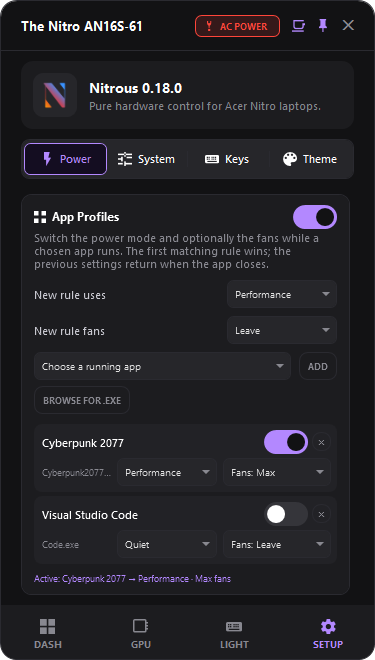
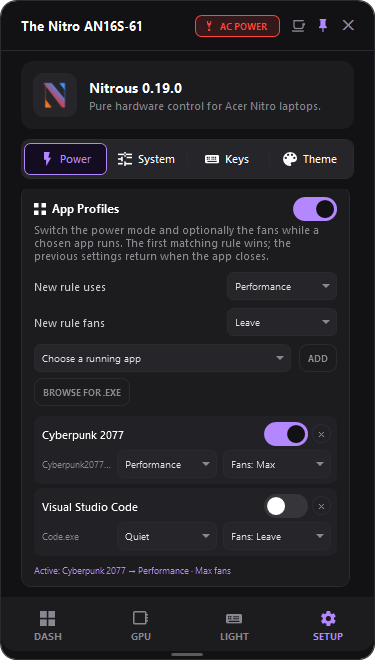
chore(release): prepare 0.19.0
Consolidates the light/dark/system, height resize, Nitro toast and event-driven app-profile work into the 0.19.0 changelog section and moves the version to 0.19.0. Refreshes the site shots at 0.19.0 and updates the Theme tab copy; the README assets are copied from the same run. Not tagged yet.

diff --git a/docs/index.html b/docs/index.html
@@ -82,7 +82,7 @@
           "downloadUrl": "https://github.com/jeremyaliparo/nitrous/releases/latest/download/Nitrous.exe",
           "applicationCategory": "UtilitiesApplication",
           "operatingSystem": "Windows 10, Windows 11",
-          "softwareVersion": "0.18.0",
+          "softwareVersion": "0.19.0",
           "license": "https://github.com/jeremyaliparo/nitrous/blob/master/LICENSE",
           "softwareHelp": "https://github.com/jeremyaliparo/nitrous#readme",
           "releaseNotes": "https://github.com/jeremyaliparo/nitrous/blob/master/CHANGELOG.md",
@@ -220,7 +220,7 @@
       <a class="brand" href="#top">
         <svg class="brand-mark" viewBox="0 0 64 64" aria-hidden="true"><path d="M8 8h12l24 34V8h12v48H44L20 22v34H8z" fill="url(#nitroGrad)"/></svg>
         <span class="brand-name">Nitrous</span>
-        <span class="brand-tag">v<span data-gh-version>0.18.0</span></span>
+        <span class="brand-tag">v<span data-gh-version>0.19.0</span></span>
       </a>
 
       <nav class="nav" id="primary-nav" aria-label="Primary">
@@ -281,7 +281,7 @@
           <div class="hero-cta reveal delay-3">
             <a class="btn btn-primary btn-lg" href="https://github.com/jeremyaliparo/nitrous/releases/latest/download/Nitrous.exe">
               <svg class="icon" aria-hidden="true"><use href="#i-windows"/></svg>
-              Download Nitrous <span class="btn-version" data-gh-version>0.18.0</span>
+              Download Nitrous <span class="btn-version" data-gh-version>0.19.0</span>
             </a>
             <a class="btn btn-ghost btn-lg" href="https://github.com/jeremyaliparo/nitrous" target="_blank" rel="noopener">
               <svg class="icon" aria-hidden="true"><use href="#i-github"/></svg>
@@ -592,7 +592,7 @@
               <span class="tab-index">05</span>
               <span class="tab-body">
                 <span class="tab-title">Theme</span>
-                <span class="tab-desc">Presets, accent swatches, corners, UI scale and the toast and tray choices.</span>
+                <span class="tab-desc">Light, dark, or System themes, accent swatches, corners, UI scale and the toast and tray choices.</span>
               </span>
             </button>
             <button class="screen-tab" type="button" id="tab-profiles" role="tab" aria-selected="false" aria-controls="panel-profiles" tabindex="-1">
@@ -653,7 +653,7 @@
                 <figcaption>Setup · App Profiles</figcaption>
               </figure>
             </div>
-            <p class="shot-hint"><span class="pulse-dot" aria-hidden="true"></span>Live app · v<span data-gh-version>0.18.0</span></p>
+            <p class="shot-hint"><span class="pulse-dot" aria-hidden="true"></span>Live app · v<span data-gh-version>0.19.0</span></p>
           </div>
         </div>
       </div>
@@ -849,7 +849,7 @@
               <span class="eyebrow">Latest release</span>
               <span class="release-badge">Stable</span>
             </div>
-            <p class="release-version">v<span data-gh-version>0.18.0</span></p>
+            <p class="release-version">v<span data-gh-version>0.19.0</span></p>
             <p class="release-date">Released <span data-gh-date>Nov 28, 2026</span></p>
 
             <dl class="release-rows">
@@ -995,7 +995,7 @@
               <svg class="icon" aria-hidden="true"><use href="#i-external"/></svg>
             </a>
           </div>
-          <p class="cta-foot">v<span data-gh-version>0.18.0</span> · MIT · Windows 10/11 x64 · .NET 10 Desktop Runtime</p>
+          <p class="cta-foot">v<span data-gh-version>0.19.0</span> · MIT · Windows 10/11 x64 · .NET 10 Desktop Runtime</p>
         </div>
       </div>
     </section>
@@ -1020,7 +1020,7 @@
           </div>
           <p class="footer-status">
             <span class="pulse-dot" aria-hidden="true"></span>
-            Actively maintained · v<span data-gh-version>0.18.0</span> · <span data-gh-date>Nov 28, 2026</span>
+            Actively maintained · v<span data-gh-version>0.19.0</span> · <span data-gh-date>Nov 28, 2026</span>
           </p>
         </div>
 

diff --git a/CHANGELOG.md b/CHANGELOG.md
@@ -3,6 +3,36 @@
 All notable changes to Nitrous are documented here. The GitHub release for a version is
 published from the matching section of this file.
 
+## 0.19.0 - 2026-11-28
+
+### Appearance
+
+**0.19.0 is the light, shape and toast line.**
+
+- **Light, dark and System.** Choose a mode or follow the Windows app theme. Light and dark keep
+  their own accent, background and section choices; light adds Daylight, Frost, Sand and Mono
+  presets and a palette with its own text, status and accent contrast range so it stays readable on
+  white. System follows Windows live.
+- **Height-only resize.** A grip below the navigation changes the dashboard height and nothing else.
+  The height is saved as `WindowHeight`, scales with the UI scale, has a 520 px minimum and is
+  clamped to the screen.
+- **A fourth toast design.** Nitro uses the angular N mark, cropped to a transparent asset. The
+  coloured dot at the right edge is gone from every design; the accent bar and the Nitro mark still
+  carry the mode colour, and Minimal keeps its left-hand dot.
+
+### Power
+
+- **App profiles are event-driven.** The three-second process snapshot is gone. A WMI watcher
+  subscribes to `Win32_ProcessStartTrace` and `Win32_ProcessStopTrace`, takes one snapshot when it
+  starts and after resume or a WMI restart, and otherwise wakes only for a start/stop. Rule edits and
+  manual power/fan changes signal the tray through a named event. A ten-second poll exists only if
+  the WMI subscription is refused. A stop event takes one live snapshot so packaged apps cannot leave
+  a stale count and keep a rule active.
+- **Overrides and cross-process fixes.** The fan hotkey applies the chosen fan directly when a rule
+  owns the fans; AC/DC re-applies respect a manual power or fan override; the keyboard flash and
+  Whisper Mode share their state across the tray and dashboard, so cycling to Quiet then switching to
+  Performance flashes and releases Whisper correctly.
+
 ## 0.19.0-test.6 - 2026-11-28
 
 ### Power
